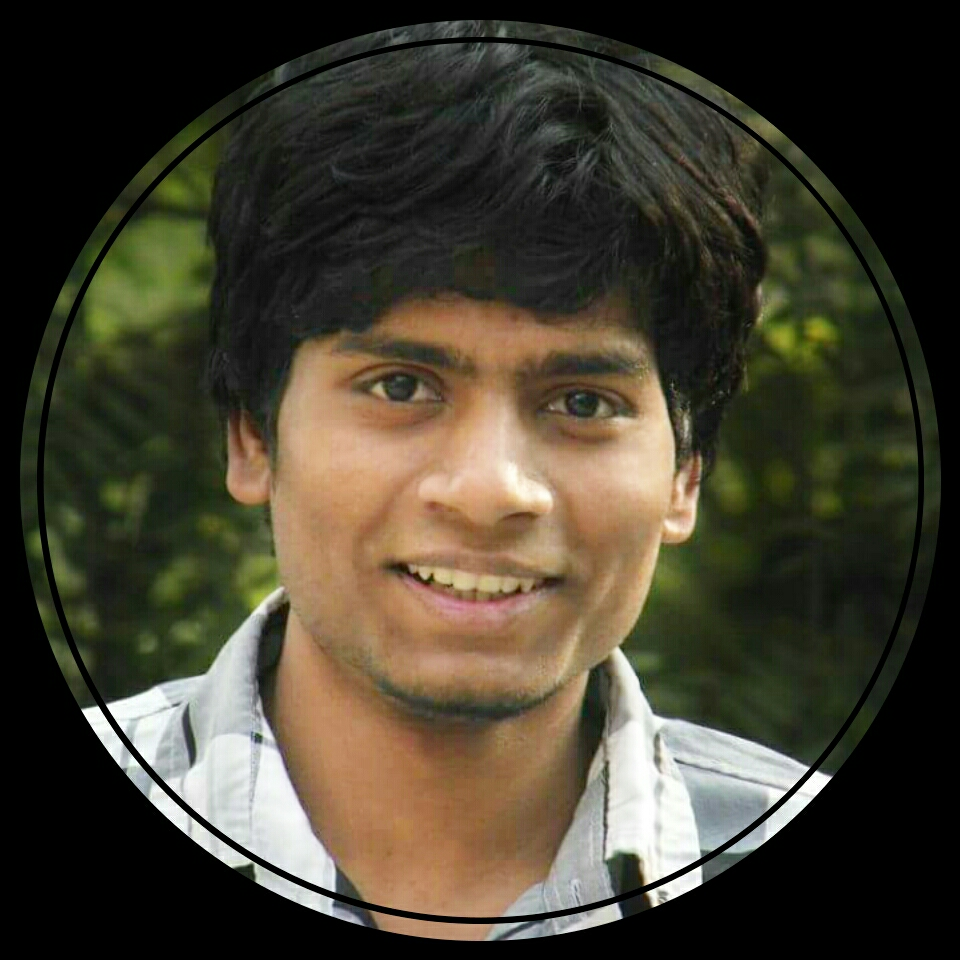
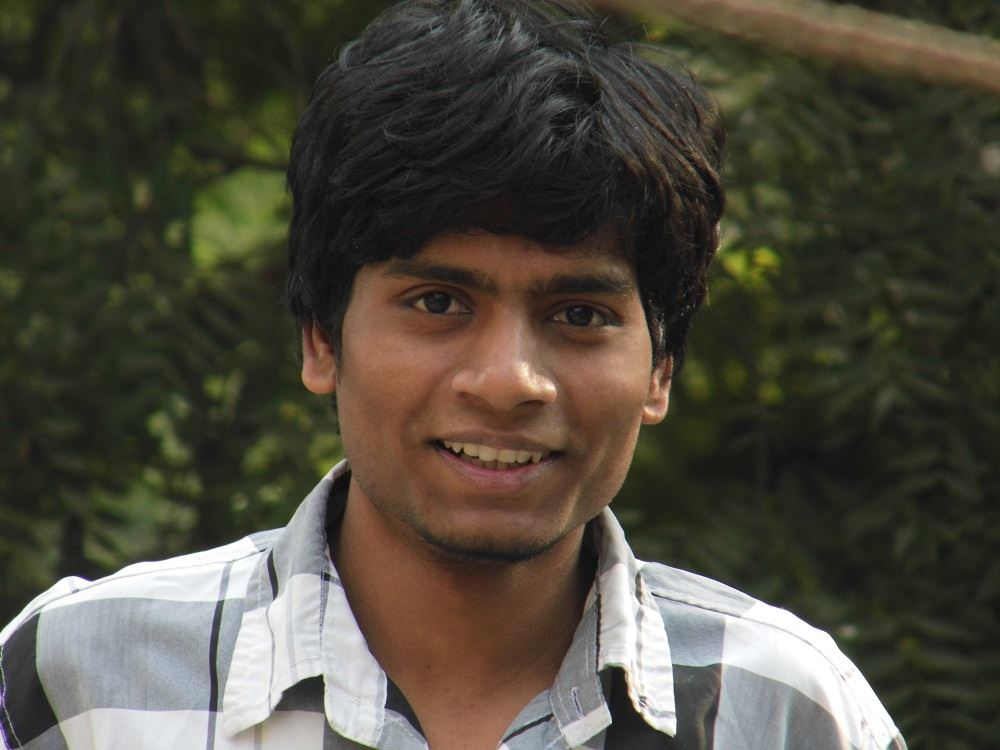
added

diff --git a/index.html b/index.html
@@ -2,6 +2,15 @@
 <html lang="en">
 
 <head>
+<style type="text/css">
+    .imagesize{
+        width: 256px;
+        height:256px;
+        border-radius: 50%;
+ 
+
+    }
+</style>
 
     <meta charset="utf-8">
     <meta http-equiv="X-UA-Compatible" content="IE=edge">
@@ -9,7 +18,7 @@
     <meta name="description" content="">
     <meta name="author" content="">
 
-    <title>Freelancer - Start Bootstrap Theme</title>
+    <title>Atif Imam-Full Stack Web Developer</title>
 
     <!-- Bootstrap Core CSS -->
     <link href="vendor/bootstrap/css/bootstrap.min.css" rel="stylesheet">
@@ -41,7 +50,7 @@
                 <button type="button" class="navbar-toggle" data-toggle="collapse" data-target="#bs-example-navbar-collapse-1">
                     <span class="sr-only">Toggle navigation</span> Menu <i class="fa fa-bars"></i>
                 </button>
-                <a class="navbar-brand" href="#page-top">Start Bootstrap</a>
+                <a class="navbar-brand" href="#page-top">Atif Imam</a>
             </div>
 
             <!-- Collect the nav links, forms, and other content for toggling -->
@@ -71,11 +80,11 @@
         <div class="container">
             <div class="row">
                 <div class="col-lg-12">
-                    <img class="img-responsive" src="img/profile.png" alt="">
+                    <img class="img-responsive imagesize" src="img/profile.png" alt="">
                     <div class="intro-text">
-                        <span class="name">Start Bootstrap</span>
+                        <span class="name">Atif Imam</span>
                         <hr class="star-light">
-                        <span class="skills">Web Developer - Graphic Artist - User Experience Designer</span>
+                        <span class="skills">Web Developer - Full Stack -  Python/Django Developer</span>
                     </div>
                 </div>
             </div>
@@ -167,7 +176,7 @@
             </div>
             <div class="row">
                 <div class="col-lg-4 col-lg-offset-2">
-                    <p>Freelancer is a free bootstrap theme created by Start Bootstrap. The download includes the complete source files including HTML, CSS, and JavaScript as well as optional LESS stylesheets for easy customization.</p>
+                    <p>A Computer Science graduate from Niit University</p>
                 </div>
                 <div class="col-lg-4">
                     <p>Whether you're a student looking to showcase your work, a professional looking to attract clients, or a graphic artist looking to share your projects, this template is the perfect starting point!</p>
